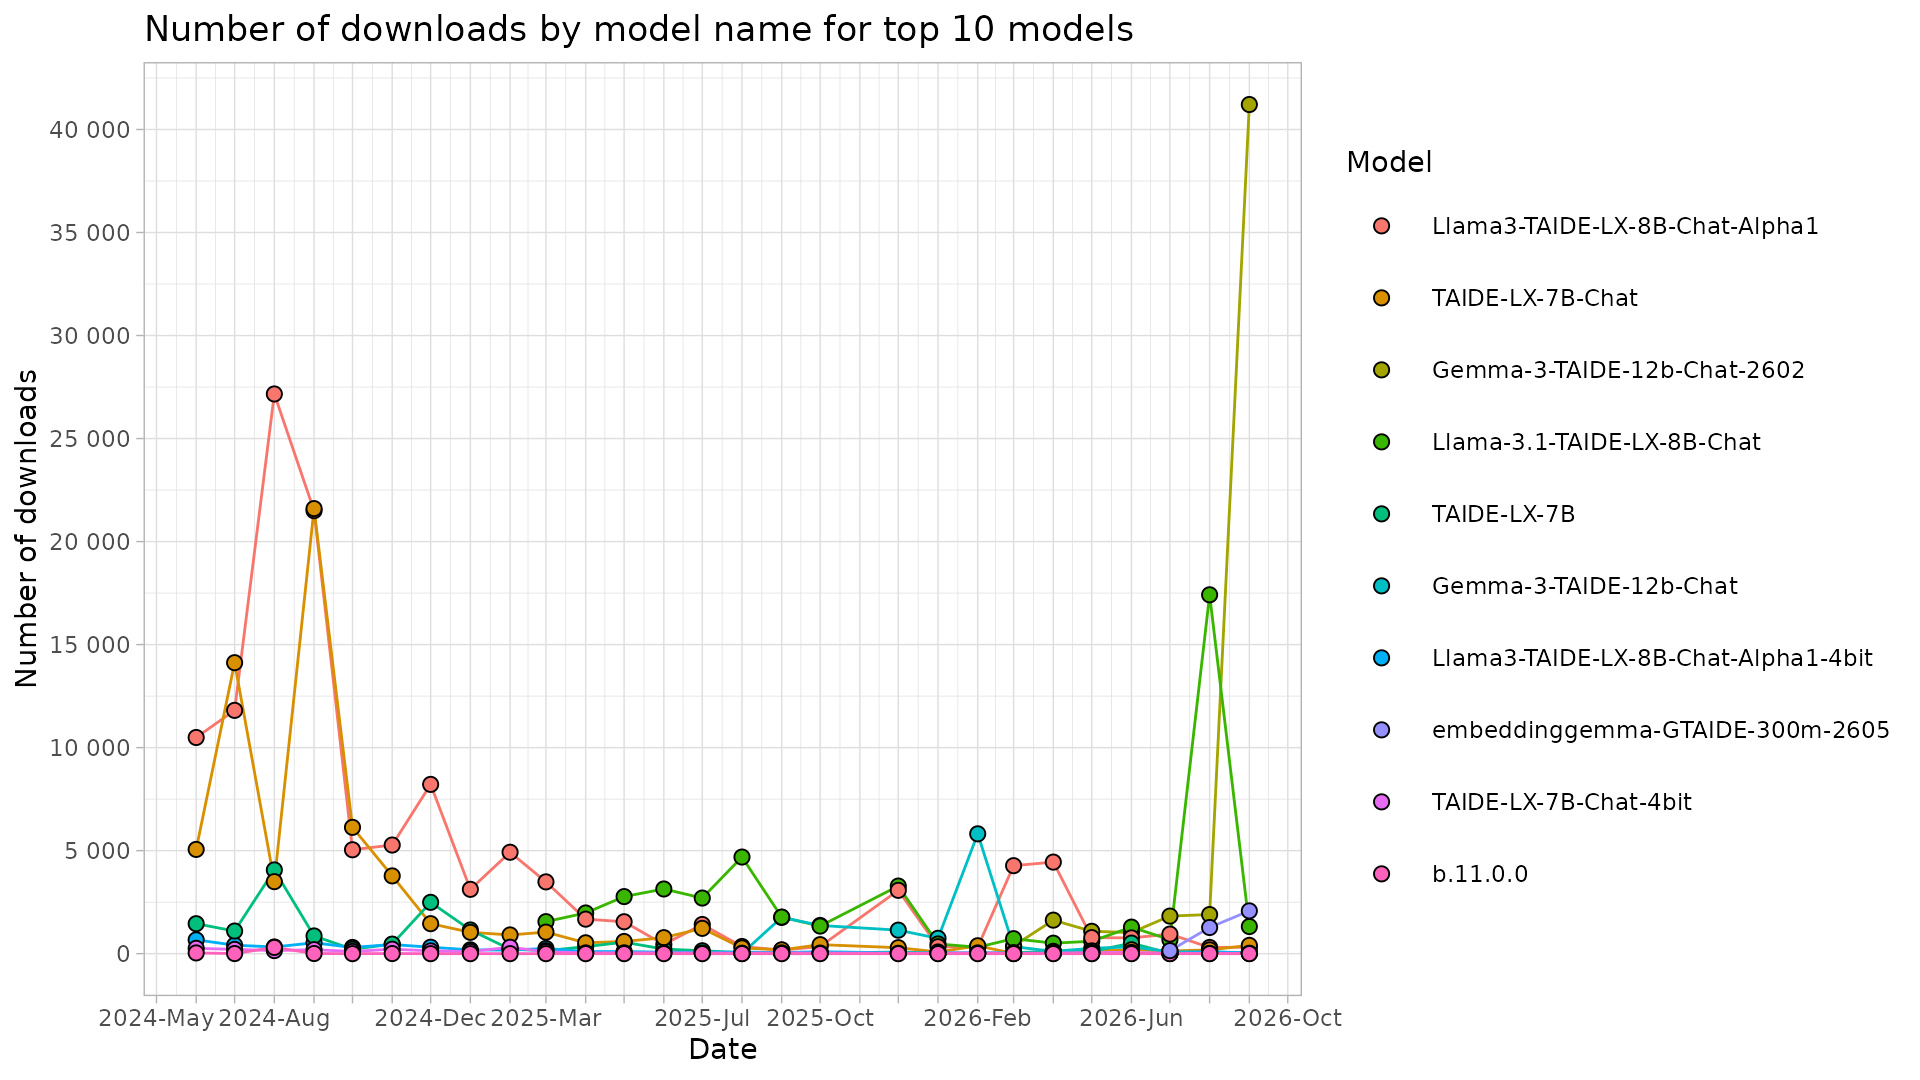
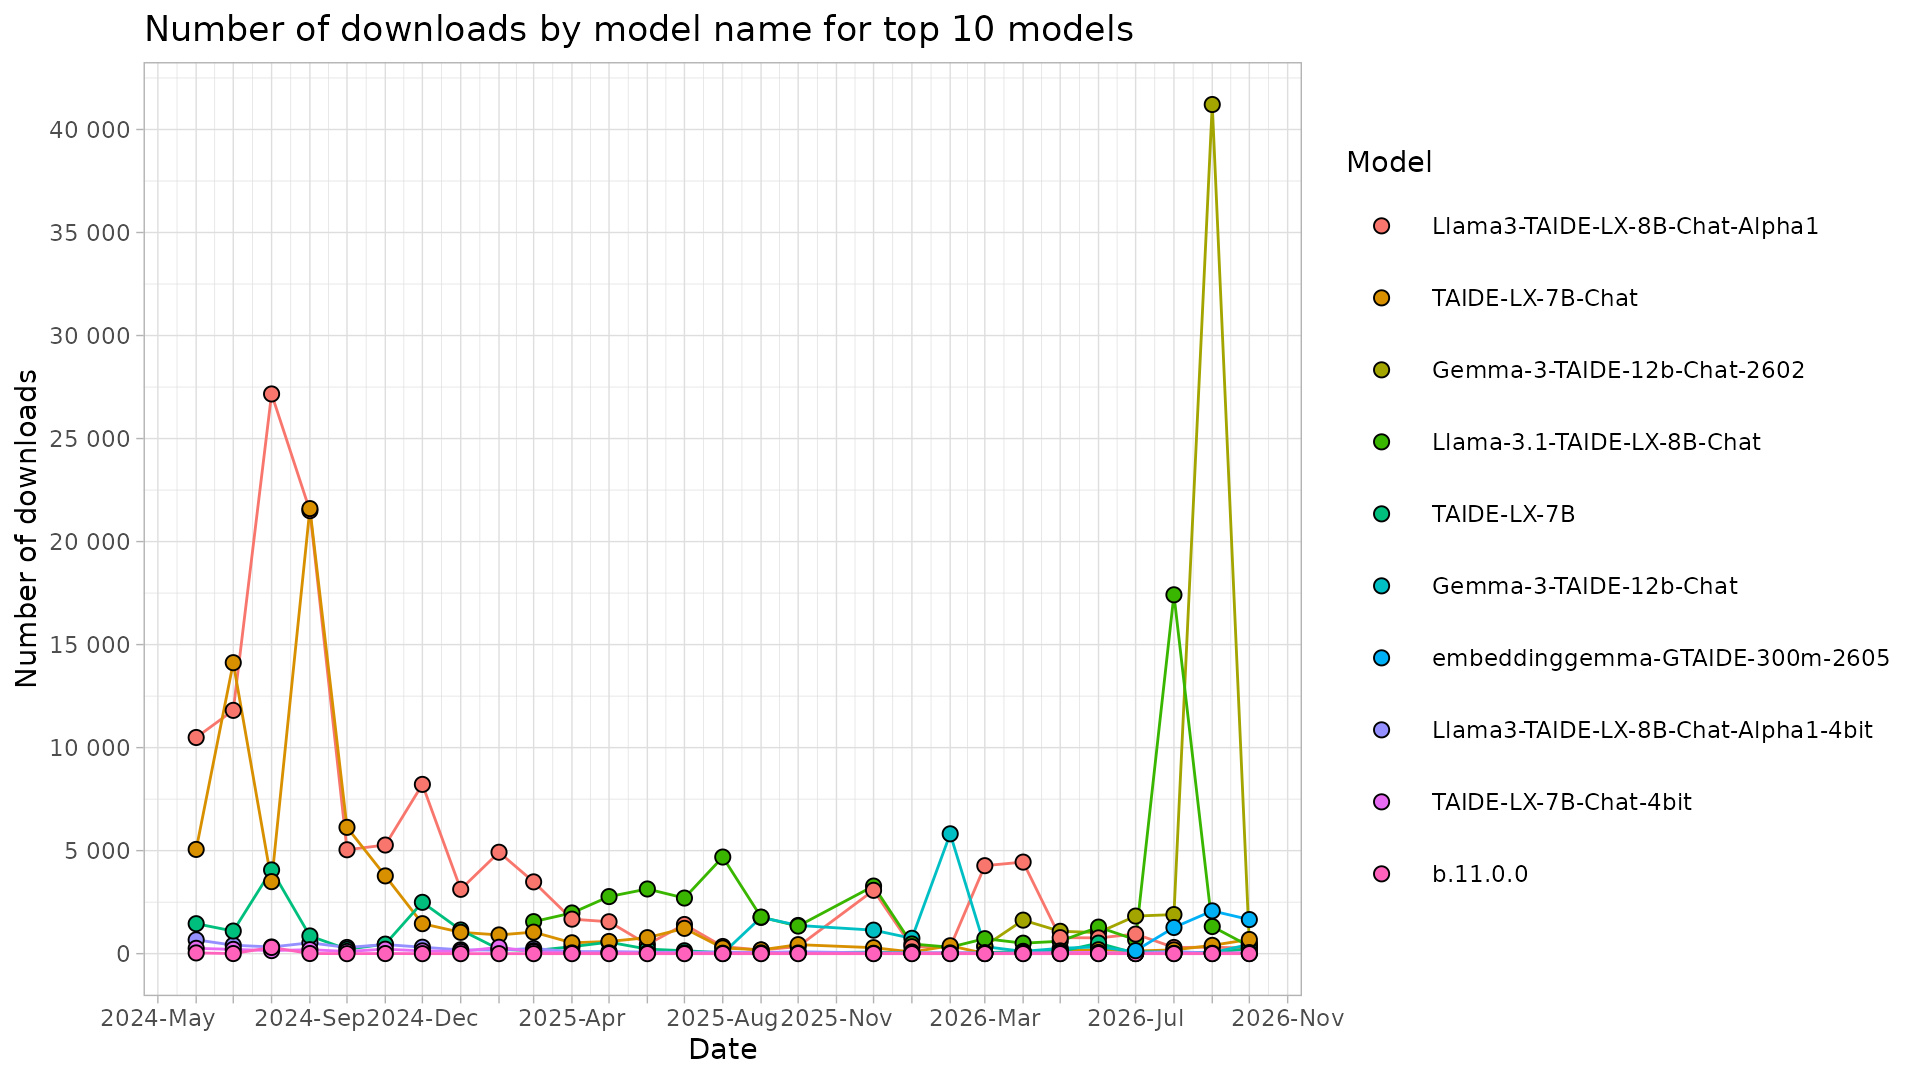
update

diff --git a/README.md b/README.md
@@ -11,19 +11,19 @@ Script is run monthly, and a monthly `csv`-file outputted to `/data` folder.
 !["Huggingface downloads by model plot."](https://github.com/nctu6/huggingface_stats/blob/main/plots/downloads_by_model.jpg)
 
 ## Table of downloads
-|model_name                          | downloadsAllTime| 2026-09| 2026-08| 2026-07| 2026-06| 2026-05| 2026-04| 2026-03| 2026-02| 2026-01| 2025-12| 2025-10| 2025-09| 2025-08| 2025-07| 2025-06| 2025-05| 2025-04| 2025-03| 2025-02| 2025-01| 2024-12| 2024-11| 2024-10| 2024-09| 2024-08| 2024-07| 2024-06|
-|:-----------------------------------|----------------:|-------:|-------:|-------:|-------:|-------:|-------:|-------:|-------:|-------:|-------:|-------:|-------:|-------:|-------:|-------:|-------:|-------:|-------:|-------:|-------:|-------:|-------:|-------:|-------:|-------:|-------:|-------:|
-|Llama3-TAIDE-LX-8B-Chat-Alpha1      |           122519|     313|     301|     950|     765|     777|    4444|    4270|     319|     337|    3073|     346|     171|     348|    1416|     446|    1549|    1675|    3484|    4922|    3122|    8215|    5272|    5042|   21499|   27164|   11808|   10491|
-|TAIDE-LX-7B-Chat                    |            64531|     402|     183|     129|     188|     135|      87|       8|     383|      82|     290|     437|     184|     276|    1228|     776|     591|     527|    1045|     909|    1036|    1455|    3774|    6130|   21600|    3495|   14122|    5059|
-|Gemma-3-TAIDE-12b-Chat-2602         |            49042|   41212|    1897|    1824|    1025|    1085|    1627|     372|       0|       0|       0|       0|       0|       0|       0|       0|       0|       0|       0|       0|       0|       0|       0|       0|       0|       0|       0|       0|
-|Llama-3.1-TAIDE-LX-8B-Chat          |            46542|    1317|   17417|     676|    1289|     602|     509|     728|     313|     471|    3281|    1339|    1774|    4689|    2699|    3139|    2770|    1975|    1554|       0|       0|       0|       0|       0|       0|       0|       0|       0|
-|TAIDE-LX-7B                         |            14551|      69|      26|      16|     512|     102|     113|      45|      26|      39|      73|      42|      27|      48|     141|     222|     558|     338|     145|     215|    1150|    2491|     463|     215|     860|    4063|    1098|    1454|
-|Gemma-3-TAIDE-12b-Chat              |            12104|      48|      77|      93|     331|     260|     111|     340|    5816|     745|    1141|    1369|    1763|      10|       0|       0|       0|       0|       0|       0|       0|       0|       0|       0|       0|       0|       0|       0|
-|Llama3-TAIDE-LX-8B-Chat-Alpha1-4bit |             4454|      14|     103|      13|      14|       8|      20|      22|      40|      28|      37|      92|      51|      76|      63|      72|     102|      99|     252|     172|     185|     312|     444|     301|     527|     324|     412|     671|
-|embeddinggemma-GTAIDE-300m-2605     |             3491|    2076|    1270|     145|       0|       0|       0|       0|       0|       0|       0|       0|       0|       0|       0|       0|       0|       0|       0|       0|       0|       0|       0|       0|       0|       0|       0|       0|
-|TAIDE-LX-7B-Chat-4bit               |             2300|      19|      14|      14|      59|      57|      27|      17|      36|      24|      18|      29|      37|      22|      34|      39|      40|      37|      94|     311|     104|     135|     217|     107|     194|     148|     208|     259|
-|b.11.0.0                            |              355|       0|       0|       0|       0|       0|       0|       0|       0|       0|       0|       0|       0|       0|       0|       0|       0|       0|       0|       0|       0|       0|       5|       0|       7|     302|       5|      36|
-|llava_llama3_8b_clip336_e           |              115|       0|       0|       0|       0|       0|       0|       0|       0|       0|       0|       0|       0|       0|       0|       0|       0|       0|       0|       0|       0|       0|       0|      81|      34|       0|       0|       0|
-|a.2.0.0                             |               24|       0|       0|       0|       0|       0|       0|       0|       0|       0|       0|       0|       0|       0|       0|       0|       0|       0|       0|       0|       0|       0|       0|       0|       0|       0|       0|      24|
-|e.1.1.0                             |               19|       0|       0|       0|       0|       0|       0|       0|       0|       0|       0|       0|       0|       0|       0|       0|       0|       0|       0|       0|       0|       0|       0|       0|       0|       5|       0|      14|
-|b.1.0.0                             |               15|       0|       0|       0|       0|       0|       0|       0|       0|       0|       0|       0|       0|       0|       0|       0|       0|       0|       0|       0|       0|       0|       0|       0|       0|       0|      15|       0|
+|model_name                          | downloadsAllTime| 2026-10| 2026-09| 2026-08| 2026-07| 2026-06| 2026-05| 2026-04| 2026-03| 2026-02| 2026-01| 2025-12| 2025-10| 2025-09| 2025-08| 2025-07| 2025-06| 2025-05| 2025-04| 2025-03| 2025-02| 2025-01| 2024-12| 2024-11| 2024-10| 2024-09| 2024-08| 2024-07| 2024-06|
+|:-----------------------------------|----------------:|-------:|-------:|-------:|-------:|-------:|-------:|-------:|-------:|-------:|-------:|-------:|-------:|-------:|-------:|-------:|-------:|-------:|-------:|-------:|-------:|-------:|-------:|-------:|-------:|-------:|-------:|-------:|-------:|
+|Llama3-TAIDE-LX-8B-Chat-Alpha1      |           122791|     272|     313|     301|     950|     765|     777|    4444|    4270|     319|     337|    3073|     346|     171|     348|    1416|     446|    1549|    1675|    3484|    4922|    3122|    8215|    5272|    5042|   21499|   27164|   11808|   10491|
+|TAIDE-LX-7B-Chat                    |            65219|     688|     402|     183|     129|     188|     135|      87|       8|     383|      82|     290|     437|     184|     276|    1228|     776|     591|     527|    1045|     909|    1036|    1455|    3774|    6130|   21600|    3495|   14122|    5059|
+|Gemma-3-TAIDE-12b-Chat-2602         |            49545|     503|   41212|    1897|    1824|    1025|    1085|    1627|     372|       0|       0|       0|       0|       0|       0|       0|       0|       0|       0|       0|       0|       0|       0|       0|       0|       0|       0|       0|       0|
+|Llama-3.1-TAIDE-LX-8B-Chat          |            46905|     363|    1317|   17417|     676|    1289|     602|     509|     728|     313|     471|    3281|    1339|    1774|    4689|    2699|    3139|    2770|    1975|    1554|       0|       0|       0|       0|       0|       0|       0|       0|       0|
+|TAIDE-LX-7B                         |            14776|     225|      69|      26|      16|     512|     102|     113|      45|      26|      39|      73|      42|      27|      48|     141|     222|     558|     338|     145|     215|    1150|    2491|     463|     215|     860|    4063|    1098|    1454|
+|Gemma-3-TAIDE-12b-Chat              |            12553|     449|      48|      77|      93|     331|     260|     111|     340|    5816|     745|    1141|    1369|    1763|      10|       0|       0|       0|       0|       0|       0|       0|       0|       0|       0|       0|       0|       0|       0|
+|embeddinggemma-GTAIDE-300m-2605     |             5146|    1655|    2076|    1270|     145|       0|       0|       0|       0|       0|       0|       0|       0|       0|       0|       0|       0|       0|       0|       0|       0|       0|       0|       0|       0|       0|       0|       0|       0|
+|Llama3-TAIDE-LX-8B-Chat-Alpha1-4bit |             4462|       8|      14|     103|      13|      14|       8|      20|      22|      40|      28|      37|      92|      51|      76|      63|      72|     102|      99|     252|     172|     185|     312|     444|     301|     527|     324|     412|     671|
+|TAIDE-LX-7B-Chat-4bit               |             2353|      53|      19|      14|      14|      59|      57|      27|      17|      36|      24|      18|      29|      37|      22|      34|      39|      40|      37|      94|     311|     104|     135|     217|     107|     194|     148|     208|     259|
+|b.11.0.0                            |              355|       0|       0|       0|       0|       0|       0|       0|       0|       0|       0|       0|       0|       0|       0|       0|       0|       0|       0|       0|       0|       0|       0|       5|       0|       7|     302|       5|      36|
+|llava_llama3_8b_clip336_e           |              115|       0|       0|       0|       0|       0|       0|       0|       0|       0|       0|       0|       0|       0|       0|       0|       0|       0|       0|       0|       0|       0|       0|       0|      81|      34|       0|       0|       0|
+|a.2.0.0                             |               24|       0|       0|       0|       0|       0|       0|       0|       0|       0|       0|       0|       0|       0|       0|       0|       0|       0|       0|       0|       0|       0|       0|       0|       0|       0|       0|       0|      24|
+|e.1.1.0                             |               19|       0|       0|       0|       0|       0|       0|       0|       0|       0|       0|       0|       0|       0|       0|       0|       0|       0|       0|       0|       0|       0|       0|       0|       0|       0|       5|       0|      14|
+|b.1.0.0                             |               15|       0|       0|       0|       0|       0|       0|       0|       0|       0|       0|       0|       0|       0|       0|       0|       0|       0|       0|       0|       0|       0|       0|       0|       0|       0|       0|      15|       0|
